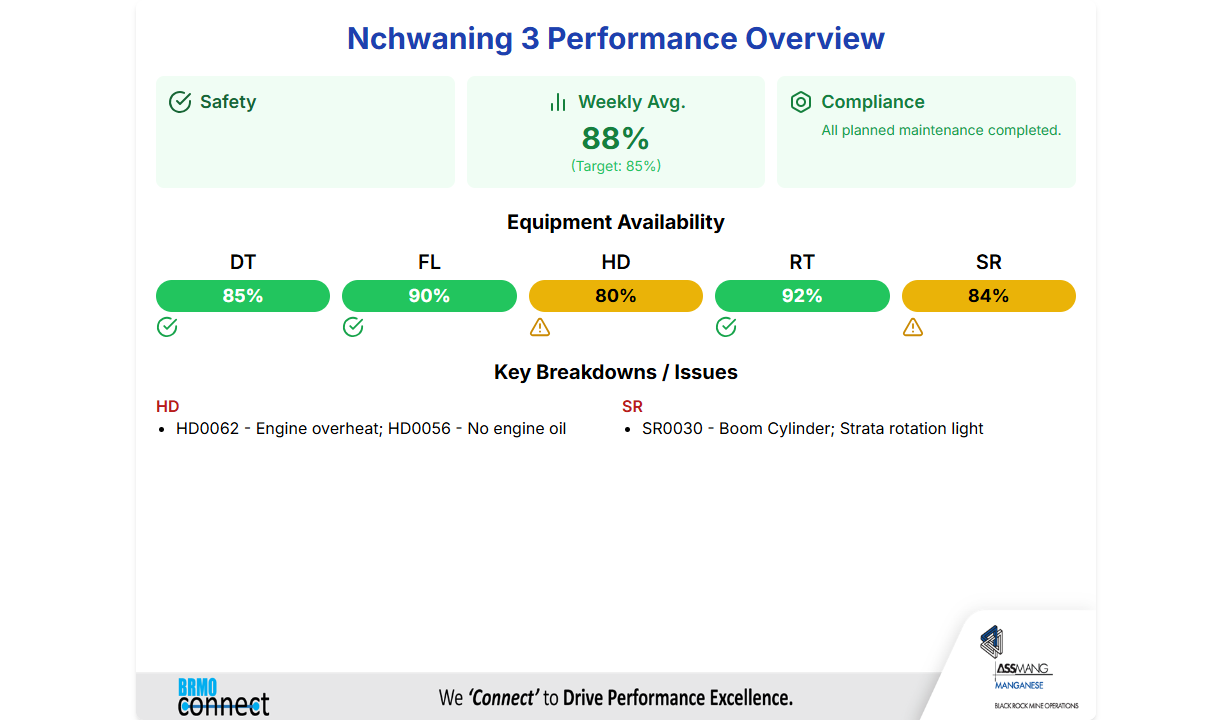
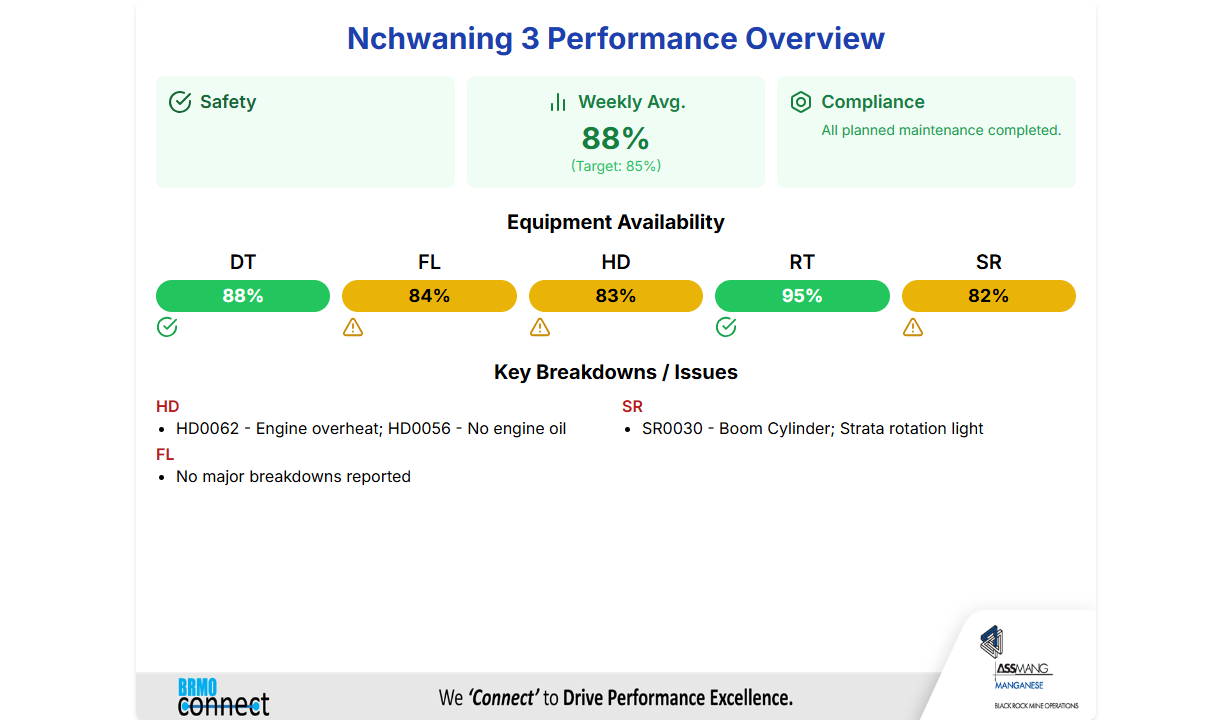
fix: Align fleet availability with trend charts

diff --git a/weekly-report-generator/src/data/reportData.ts b/weekly-report-generator/src/data/reportData.ts
@@ -138,11 +138,11 @@ export const reportData: ReportData = {
       weeklyAverage: { value: 93, target: 85 },
       serviceCompliance: { status: 'Good', details: 'All planned maintenance completed.' },
       availability: [
-        { label: 'DT', percentage: 93, target: 85 },
-        { label: 'FL', percentage: 86, target: 85 },
-        { label: 'HD', percentage: 92, target: 85 },
-        { label: 'RT', percentage: 87, target: 85 },
-        { label: 'SR', percentage: 88, target: 85 }
+        { label: 'DT', percentage: 97, target: 85 },
+        { label: 'FL', percentage: 89, target: 85 },
+        { label: 'HD', percentage: 94, target: 85 },
+        { label: 'RT', percentage: 96, target: 85 },
+        { label: 'SR', percentage: 91, target: 85 }
       ],
       keyBreakdowns: [
         { equipment: 'RT', details: ['RT0027 - Drifter'] },
@@ -159,10 +159,10 @@ export const reportData: ReportData = {
       weeklyAverage: { value: 89, target: 85 },
       serviceCompliance: { status: 'Issues', details: 'DT fleet at 67% (DT0128 breakdown), FL fleet at 33% (low availability).' },
       availability: [
-        { label: 'DT', percentage: 82, target: 85 },
-        { label: 'FL', percentage: 72, target: 85 },
-        { label: 'HD', percentage: 91, target: 85 },
-        { label: 'RT', percentage: 87, target: 85 },
+        { label: 'DT', percentage: 84, target: 85 },
+        { label: 'FL', percentage: 78, target: 85 },
+        { label: 'HD', percentage: 96, target: 85 },
+        { label: 'RT', percentage: 89, target: 85 },
         { label: 'SR', percentage: 98, target: 85 }
       ],
       keyBreakdowns: [
@@ -180,15 +180,16 @@ export const reportData: ReportData = {
       weeklyAverage: { value: 88, target: 85 },
       serviceCompliance: { status: 'Good', details: 'All planned maintenance completed.' },
       availability: [
-        { label: 'DT', percentage: 85, target: 85 },
-        { label: 'FL', percentage: 90, target: 85 },
-        { label: 'HD', percentage: 80, target: 85 },
-        { label: 'RT', percentage: 92, target: 85 },
-        { label: 'SR', percentage: 84, target: 85 }
+        { label: 'DT', percentage: 88, target: 85 },
+        { label: 'FL', percentage: 84, target: 85 },
+        { label: 'HD', percentage: 83, target: 85 },
+        { label: 'RT', percentage: 95, target: 85 },
+        { label: 'SR', percentage: 82, target: 85 }
       ],
       keyBreakdowns: [
         { equipment: 'HD', details: ['HD0062 - Engine overheat; HD0056 - No engine oil'] },
         { equipment: 'SR', details: ['SR0030 - Boom Cylinder; Strata rotation light'] },
+        { equipment: 'FL', details: ['No major breakdowns reported'] },
       ],
     }
   },
